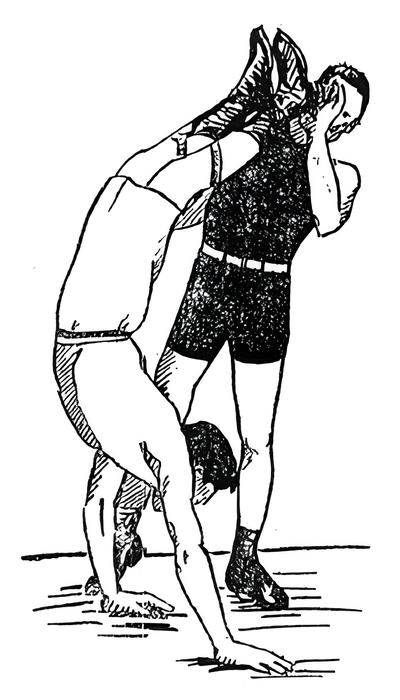
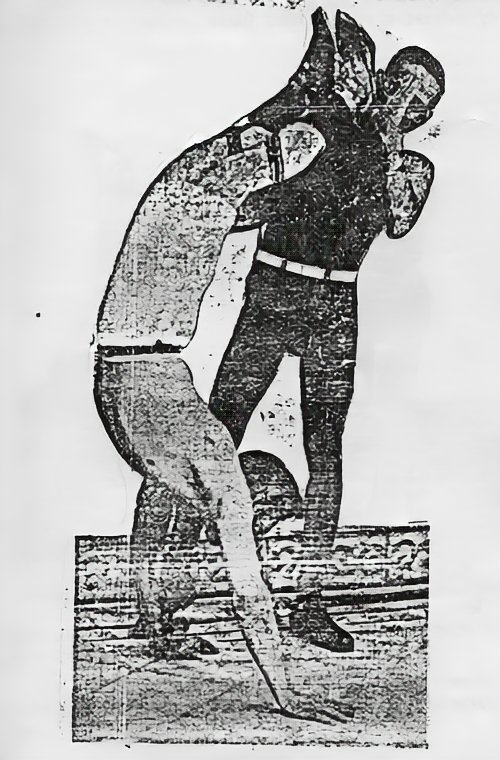
m

diff --git a/moves/queda-de-rins.html b/moves/queda-de-rins.html
@@ -19,8 +19,9 @@
     <a href="../images/alex/Capoeira-illustration-0827.jpg"><img title="Painting by Alexandre Guillaume (et-si.net)" src="../images/alex/Capoeira-illustration-0827.jpg"></a>
     <a href="../images/alex/Capoeira-illustration-0876.jpg"><img title="Painting by Alexandre Guillaume (et-si.net)" src="../images/alex/Capoeira-illustration-0876.jpg"></a>
     <a href="../images/alex/Capoeira-illustration-1044.jpg"><img title="Painting by Alexandre Guillaume (et-si.net)" src="../images/alex/Capoeira-illustration-1044.jpg"></a>
-    <a href="../images/alex/encre_0118.jpg"><img title="Painting by Alexandre Guillaume (et-si.net)" src="../images/alex/encre_0118.jpg"></a>
     <a href="../images/art/queda-de-rins_by_capoeirabonia.jpg"><img title="Art by by capoeirabonia" src="../images/art/queda-de-rins_by_capoeirabonia.jpg"></a>
+    <a href="../images/art/queda-de-rins-by_aberantdware.jpg"><img title="Art by by aberantdware" src="../images/art/queda-de-rins-by_aberantdware.jpg"></a>
+    <!-- <a href="../images/alex/encre_0118.jpg"><img title="Painting by Alexandre Guillaume (et-si.net)" src="../images/alex/encre_0118.jpg"></a> -->
     <!-- <a href="../images/alex/encre_0523.jpg"><img title="Painting by Alexandre Guillaume (et-si.net)" src="../images/alex/encre_0523.jpg"></a> -->
   </div>
 

diff --git a/moves/escorpiao-duplo.html b/moves/escorpiao-duplo.html
@@ -16,7 +16,7 @@
   <h2>Gallery</h2>
 
   <div class="gallery">
-    <a href="../images/pederneiras/rabo-de-arraia.jpg"><img src="../images/pederneiras/rabo-de-arraia.jpg" title="Raul Pederneiras drawing from 1921."></a>
+    <a href="../images/pederneiras/pantana-kick.jpg"><img src="../images/pederneiras/pantana-kick.jpg" title="Drawing from O nosso jogo, by Raul Pederneiras (1926)"></a>
     <a href="../images/zuma/rabo-de-arraia-zuma.jpg"><img src="../images/zuma/rabo-de-arraia-zuma.jpg" title="Anníbal Burlamaqui Zuma, Gymnástica Nacional (capoeiragem), 1928."></a>
     <a href="../images/alex/encre_0141.jpg"><img title="Painting by Alexandre Guillaume (et-si.net)" src="../images/alex/encre_0141.jpg"></a>
     <a href="../images/alex/tumblr_moj1q8fnIl1rtedaso1_1280.png"><img title="Painting by Alexandre Guillaume (et-si.net)" src="../images/alex/tumblr_moj1q8fnIl1rtedaso1_1280.png"></a>

diff --git a/README.md b/README.md
@@ -7,7 +7,8 @@ List of capoeira moves with pictures, names and video tutorials.
 - probati ai na neke zumine slike za sajt
 - Bimba slike https://decapoeira.org/curso-de-capoeira-regional-por-mestre-bimba/
 - https://www.ncbi.nlm.nih.gov/pmc/articles/PMC7673407/ The Blows and Capoeira Movements From the Caricatures of Calixto Cordeiro
-- razdvojiti Bênção od Chapa de frente
+- razdvojiti Bênção od Chapa de frente na wiki?
+- tražiti capoeira umetnost na deviant art
 
 <ref name="Damião">[https://cppa.com.br/attachments/File/Artigos/LUTA_REGIONAL_BAHIANA_DO_MESTRE_BIMBA.pdf Mestre Damião, A verdadeira história da criação da Luta Regional Bahiana do mestre Bimba]</ref>
 
